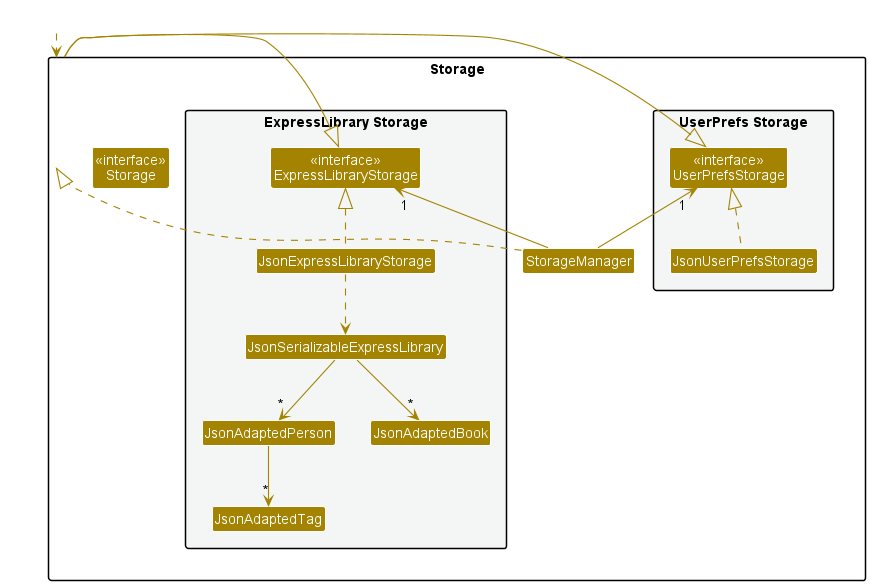
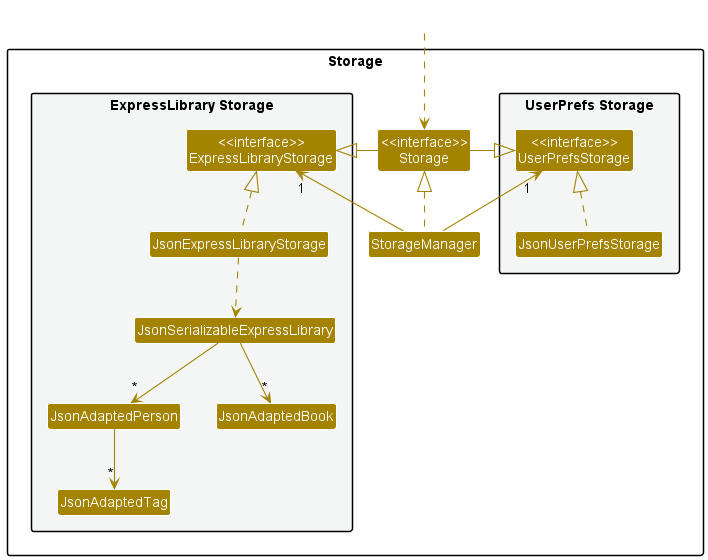
fix storage diagram and add how data is saved to DG

Changed region(s): [[0.0, 0.0304, 1.0, 1.0], [0.1864, 0.5464, 0.5282, 0.6982], [0.435, 0.6679, 0.4661, 0.6982]]

diff --git a/docs/DeveloperGuide.md b/docs/DeveloperGuide.md
@@ -9,8 +9,17 @@ title: Developer Guide
 
 ## **Acknowledgements**
 
-* {list here sources of all reused/adapted ideas, code, documentation, and third-party libraries -- include links to the original source as well}
-* --------------------------------------------------------------------------------------------------------------------
+* This project is based on the AddressBook-Level3 project created by the [_SE-EDU initiative_](https://se-education.org).
+
+--------------------------------------------------------------------------------------------------------------------
+
+## **Introduction**
+
+* This Developer Guide documents the architecture and design of ExpressLibrary, along with some advanced information about the implementation details of ExpressLibrary’s features.
+
+* The Developer Guide is written to aid present and future librarians, who may be technically gifted, in extending ExpressLibrary features by providing them the necessary knowledge on how ExpressLibrary works.
+
+--------------------------------------------------------------------------------------------------------------------
 
 ## **Setting up, getting started**
 
@@ -155,6 +164,40 @@ Classes used by multiple components are in the `expresslibrary.commons` package.
 
 This section describes some noteworthy details on how certain features are implemented.
 
+### How data is saved
+
+#### Implementation
+
+Data in ExpressLibrary is saved in `[JAR file location]/data/expresslibrary.json`, consisting of an array of `persons` and `books`.
+
+Each person in the `persons` array will contain these fields:
+
+* `name`: Represents the name of the person.
+* `phone`: Represents the phone number of the person.
+* `email`: Represents the email of the person.
+* `address`: Represents the address of the person.
+* `books`: Represents the set of books that the person has borrowed, will be an empty set if the person has not borrowed any.
+* `tagged`: Represents the tags assigned to the person, will be an empty set if the person has no tags assigned.
+
+<div markdown="span" class="alert alert-warning">
+
+ :warning: **Note:** If editing the file manually, note that `books` in **each person** must be present in the main `books` array. Otherwise, the data file will be invalid.
+</div>
+
+Each book in the `books` array will contain these fields:
+
+* `title`: Represents the title of the book.
+* `author`: Represents the author of the book.
+* `isbn`: Represents the ISBN of the book.
+* `borrowDate`: Represents the date in the form `dd/mm/yyyy` when the book was borrowed by a person, will be an empty string if not borrowed.
+* `dueDate`: Represents the date in the form `dd/mm/yyyy` when the book has to be returned by a person, will be an empty string if not borrowed.
+* `isBorrowed`: Represents whether the book is borrowed. True if borrowed and false if not.
+
+<div markdown="span" class="alert alert-warning">
+
+ :warning: **Note:** If editing the file manually, note that borrowDate and dueDate has to be included if isBorrowed is true and vice versa. Otherwise, the data file will be invalid.
+</div>
+
 ### Borrow/return feature
 
 #### Implementation
@@ -173,7 +216,7 @@ The user executes `borrow 1 b/2 d/23/11/2023` command to lend the 2nd Book in th
 
 The `BorrowCommand` class will first retrieve the Person object and Book object from the given indexes and create a copy of them (since they are immutable) called `editedPerson` and `bookToBorrow`.
 
-Then, it calls `borrowBook` on `editedPerson` and passes in the Book object `bookToBorrow`. This will add the Book to the Person's `Set` of books field. Similarly, the class also calls `loanBookTo` on `bookToBorrow` to update the Book's fields with the borrower, the borrow date (current date) and the due date details. 
+Then, it calls `borrowBook` on `editedPerson` and passes in the Book object `bookToBorrow`. This will add the Book to the Person's `Set` of books field. Similarly, the class also calls `loanBookTo` on `bookToBorrow` to update the Book's fields with the borrower, the borrow date (current date) and the due date details.
 
 Given below is an example usage scenario of the return command:
 
@@ -204,19 +247,6 @@ Step 4. `FindBookCommand#execute` returns a `CommandResult` object to the `Logic
 The following sequence diagram shows how the findBook operation works:
 
 ![FindBookSequenceDiagram](images/FindBookSequenceDiagram.png)
-
-#### Design considerations:
-
-**Aspect: How undo & redo executes:**
-
-* **Alternative 1 (current choice):** Saves the entire express library.
-  * Pros: Easy to implement.
-  * Cons: May have performance issues in terms of memory usage.
-
-* **Alternative 2:** Individual command knows how to undo/redo by
-  itself.
-  * Pros: Will use less memory (e.g. for `delete`, just save the person being deleted).
-  * Cons: We must ensure that the implementation of each individual command are correct.
 --------------------------------------------------------------------------------------------------------------------
 
 ## **Documentation, logging, testing, configuration, dev-ops**
@@ -236,13 +266,13 @@ The following sequence diagram shows how the findBook operation works:
 **Target user profile**:
 
 * has a need to manage a significant number of books and library users
-* prefer desktop apps over other types
+* has a need to quickly access a particular book or person
+* has a need to track if due dates of books borrowed are approaching/expired
 * can type fast
 * prefers typing to mouse interactions
 * is reasonably comfortable using CLI apps
 
-**Value proposition**: manage users and books faster than a typical mouse/GUI driven app
-
+**Value proposition**: manage users and books faster, quickly find users or books faster than a typical mouse/GUI driven app
 
 ### User stories
 
@@ -260,8 +290,6 @@ Priorities: High (must have) - `* * *`, Medium (nice to have) - `* *`, Low (unli
 | `*`      | advanced librarian  | edit the data file                                | adjust the data to suit my needs                                   |
 
 
-*{More to be added}*
-
 ### Use cases
 
 (For all use cases below, the **System** is the `ExpressLibrary` and the **Actor** is the `user`, unless specified otherwise)
@@ -270,21 +298,21 @@ Priorities: High (must have) - `* * *`, Medium (nice to have) - `* *`, Low (unli
 
 **MSS**
 
-1. User requests to list persons
-2. ExpressLibrary shows a list of persons
-3. User requests to delete a specific person in the list
-4. ExpressLibrary deletes the person
+1. User requests to list persons.
+2. ExpressLibrary shows a list of persons.
+3. User requests to delete a specific person in the list.
+4. ExpressLibrary deletes the person.
 
     Use case ends.
 
-**Use case: Add book borrowed to a person**
+**Use case: Book is borrowed by a person**
 
 **MSS**
 
-1.  User requests to list persons
-2.  ExpressLibrary shows a list of persons
-3.  User requests to add a book to a specific person in the list
-4.  ExpressLibrary adds a book field to the person
+1.  User requests to list persons.
+2.  ExpressLibrary shows a list of persons.
+3.  User requests to add a book to a specific person in the list.
+4.  ExpressLibrary adds a book field to the person.
 
     Use case ends.
 
@@ -311,7 +339,7 @@ Priorities: High (must have) - `* * *`, Medium (nice to have) - `* *`, Low (unli
 ### Glossary
 
 * **Mainstream OS**: Windows, Linux, Unix, OS-X
-* **Book Status**: Status of the book, whether the book is available to borrow or not
+* **ISBN**: International Standard Book Number which is a commercial book identifier that is intended to be unique. Consists of 10 to 13 digits.
 
 --------------------------------------------------------------------------------------------------------------------
 
@@ -319,21 +347,23 @@ Priorities: High (must have) - `* * *`, Medium (nice to have) - `* *`, Low (unli
 
 Given below are instructions to test the app manually.
 
-<div markdown="span" class="alert alert-info">:information_source: **Note:** These instructions only provide a starting point for testers to work on;
+<div markdown="span" class="alert alert-info">
+
+:information_source: **Note:** These instructions only provide a starting point for testers to work on;
 testers are expected to do more *exploratory* testing.
 
 </div>
 
 ### Launch and shutdown
 
-1. Initial launch
+* Initial launch
 
    1. Download the jar file and copy into an empty folder.
 
    1. Double-click the jar file. <br>
-      Expected: Shows the GUI with a set of sample contacts. The window size may not be optimum.
+      Expected: Shows the GUI with a set of sample people and books.
 
-1. Saving window preferences
+* Saving window preferences
 
    1. Resize the window to an optimum size. Move the window to a different location. Close the window.
 
@@ -342,7 +372,7 @@ testers are expected to do more *exploratory* testing.
 
 ### Adding a book
 
-1. Adding a book while all books are being shown
+* Adding a book while all books are being shown.
 
     1. Test case: `addBook t/Diary of a Wimpy kid a/Jeff Kinney i/9780810993136`<br>
        Expected: A book and its details is added into the book list.
@@ -355,9 +385,9 @@ testers are expected to do more *exploratory* testing.
 
 ### Deleting a book
 
-1. Deleting a book while all books are being shown
+* Deleting a book while all books are being shown.
 
-    1. Prerequisites: List all books using the `list` command. Multiple books in the list.
+    1. Prerequisites: List all books using the `listBook` command. Multiple books in the list.
 
     1. Test case: `deleteBook 1`<br>
        Expected: First book is deleted from the list. Details of the deleted book shown in the status message. Timestamp in the status bar is updated.
@@ -370,9 +400,9 @@ testers are expected to do more *exploratory* testing.
 
 ### Editing a book
 
-1. Editing a book while all books are being shown
+* Editing a book while all books are being shown.
 
-    1. Prerequisites: List all books using the `list` command. Multiple books in the list.
+    1. Prerequisites: List all books using the `listBook` command. Multiple books in the list.
 
     1. Test case: `editBook 1 t/Diary of a Wimpy kid a/Jeff Kinney i/9780810993136`<br>
        Expected: First book is edited. Details of the book are changed according to the input.
@@ -385,7 +415,7 @@ testers are expected to do more *exploratory* testing.
 
 ### Deleting a person
 
-1. Deleting a person while all persons are being shown
+1. Deleting a person while all persons are being shown.
 
    1. Prerequisites: List all persons using the `listPerson` command. Multiple persons in the list.
 
@@ -400,8 +430,21 @@ testers are expected to do more *exploratory* testing.
 
 ### Saving data
 
-1. Dealing with missing/corrupted data files
+1. Dealing with missing data files.
+   1. Delete `[JAR file location]/data/expresslibrary.json` if it exists. 
+   
+   Expected: Launch ExpressLibrary and you should be able to see sample data with people and books.
 
-   1. _{explain how to simulate a missing/corrupted file, and the expected behavior}_
+2. Dealing with corrupted data files.
 
-1. _{ more test cases … }_
+   1. Prerequisites: `expresslibrary.json` should exist in `[JAR file location]/data`. If it does not exist, launch ExpressLibrary and use any command that will change the data of the ExpressLibrary (e.g. `addBook`, `borrow`, etc.) and the `expresslibrary.json` file will be automatically generated.
+
+   1. To simulate a corrupted file, go to `[JAR file location]/data/expresslibrary.json` and make changes so that the file would be invalid (e.g. remove a comma/bracket).
+
+   Expected: Launch ExpressLibrary and you should see that ExpressLibrary will be empty.
+
+<div markdown="span" class="alert alert-info">
+
+:information_source: **Note:** Advanced users of ExpressLibrary are welcome to manually edit the data file if they wish to do so. Please refer to [_How data is saved_](https://ay2223s2-cs2103t-t12-3.github.io/tp/DeveloperGuide.html#how-data-is-saved).
+
+</div>

diff --git a/docs/UserGuide.md b/docs/UserGuide.md
@@ -271,12 +271,11 @@ Format: `help`
 
 ### Saving the data
 
-ExpressLibrary data are saved in the hard disk automatically after any command that changes the data. There is no need to save manually.
+ExpressLibrary data is saved in the hard disk automatically after any command that changes the data. There is no need to save manually. Please refer to [_How data is saved_](https://ay2223s2-cs2103t-t12-3.github.io/tp/DeveloperGuide.html#how-data-is-saved) for more details.
 
 ### Editing the data file
 
-
-ExpressLibrary data are saved as a JSON file `[JAR file location]/data/expresslibrary.json`. Advanced users are welcome to update data directly by editing that data file.
+ExpressLibrary data is saved as a JSON file `[JAR file location]/data/expresslibrary.json`. Advanced users are welcome to update data directly by editing that data file.
 
 <div markdown="span" class="alert alert-warning">
 
